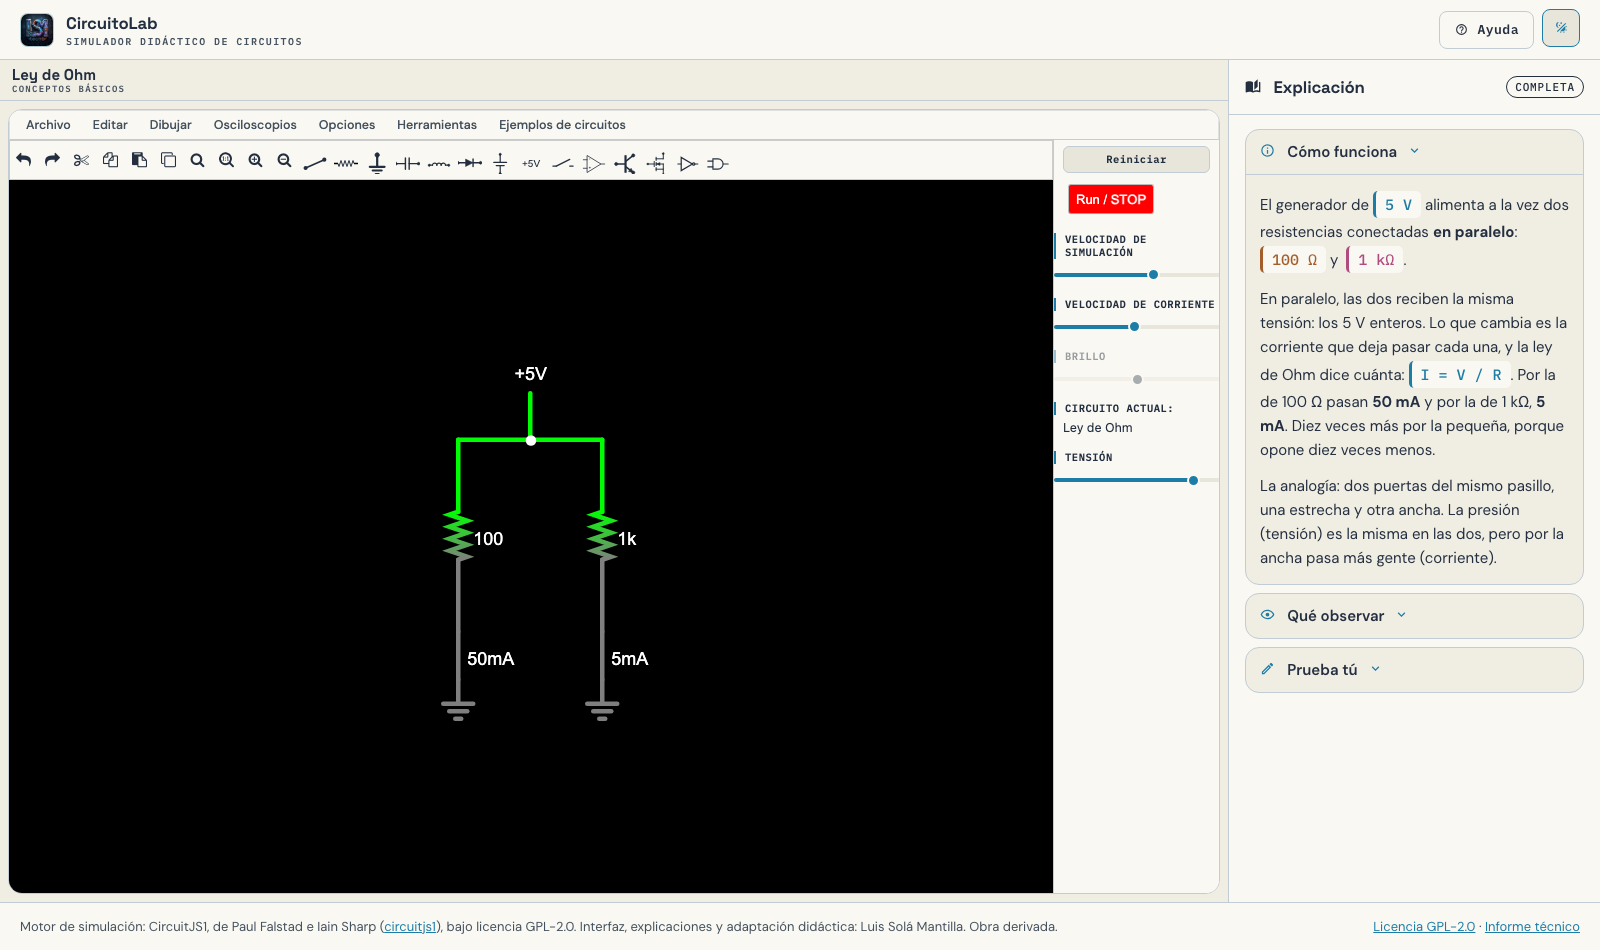
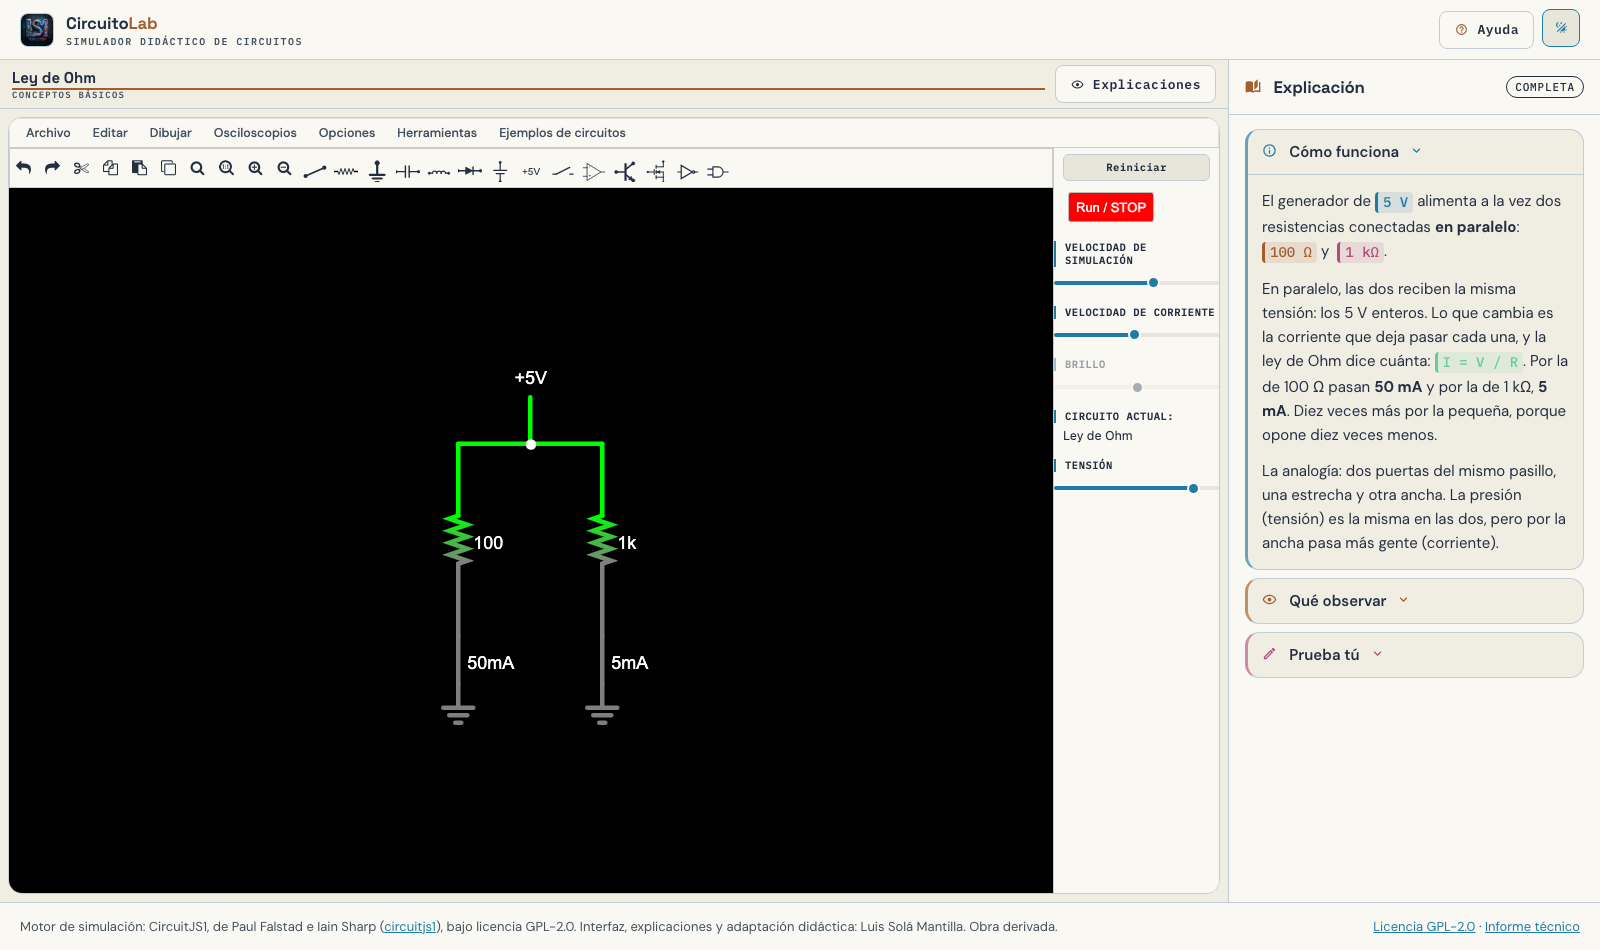
feat(ui): boton 'Explicaciones' para toggle del panel derecho (sin watchdog)

diff --git a/assets/js/app.js b/assets/js/app.js
@@ -13,7 +13,6 @@ const ESTADO = {
   catalogo: [],
   porId: new Map(),
   circuitoActual: null,
-  cargandoCatalogo: false,
   api: null,              // window.CircuitJS1 del iframe
   bloquesAbiertos: {},     // { bloqueId: true }
   cargando: false,
@@ -197,29 +196,7 @@ function vigilarCargasDelMotor() {
     };
   }
 
-  /* Watchdog: cuando el usuario hace "Nuevo circuito en blanco" el motor
-     no pide ningún .txt, así que alCargarArchivo no se dispara. Detectamos el
-     cambio sondeando exportCircuit(): si el XML del motor cambia sin que
-     estemos cargando un circuito del catálogo, es un circuito propio y
-     ocultamos el panel didáctico. */
-  let ultimoXml = w.exportCircuit ? w.exportCircuit() : '';
-  setInterval(() => {
-    try {
-      const xml = w.exportCircuit ? w.exportCircuit() : '';
-      if (xml === ultimoXml) return;
-      if (ESTADO.cargandoCatalogo) { ultimoXml = xml; return; }
-      if (xml.trim() && xml !== ultimoXml) {
-        // el motor cambió a un circuito que no viene del catálogo
-        ESTADO.circuitoActual = null;
-        const t = $('#titulo-circuito');
-        const sb = $('#subtitulo-circuito');
-        if (t) t.textContent = 'Circuito propio';
-        if (sb) sb.textContent = 'Creado o importado. No está en el catálogo.';
-        actualizarPanel();
-      }
-      ultimoXml = xml;
-    } catch (e) { /* motor aún no listo */ }
-  }, 600);
+
 }
 
 /** Cabecera del simulador: nombre, curso y categoría del circuito. */
@@ -822,16 +799,15 @@ function initBotones() {
     });
   }
 
-  const nuevo = $('#btn-nuevo');
-  if (nuevo && ESTADO.api) {
-    nuevo.addEventListener('click', () => {
-      try { ESTADO.api.importCircuit('', false); } catch (e) { /* motor aún no listo */ }
-      ESTADO.circuitoActual = null;
-      const t = $('#titulo-circuito');
-      const sb = $('#subtitulo-circuito');
-      if (t) t.textContent = 'Circuito propio';
-      if (sb) sb.textContent = 'Creado o importado. No está en el catálogo.';
-      actualizarPanel();
+  const explicaciones = $('#btn-explicaciones');
+  if (explicaciones) {
+    explicaciones.addEventListener('click', () => {
+      const panel = $('#panel');
+      const cuerpo = $('.cuerpo');
+      const ocultar = !panel.hidden;
+      panel.hidden = ocultar;
+      if (cuerpo) cuerpo.classList.toggle('panel-oculto', ocultar);
+      explicaciones.setAttribute('aria-expanded', String(!ocultar));
     });
   }
 }
@@ -860,7 +836,7 @@ function initIconos() {
   const mapa = {
     '#icono-cargando': 'mdi:electric-switch',
     '#icono-panel': 'mdi:book-open-page-variant',
-    '#icono-nuevo': 'mdi:file-plus',
+    '#icono-explicaciones': 'mdi:eye-outline',
     '#icono-pendiente': 'mdi:clock-outline',
     '#icono-ayuda': 'mdi:help-circle-outline',
     '#icono-ayuda-cerrar': 'mdi:close',

diff --git a/assets/css/fx.css b/assets/css/fx.css
@@ -1,0 +1,40 @@
+/* ==========================================================================
+   Fórmulas y valores destacados (.fx) + fracciones apiladas (.frac)
+   Regla de Luis (14/10/2026): siempre así, tanto en fórmulas simbólicas
+   como en operaciones numéricas. Ver references/formulas-fichas-y-fracciones.md
+   ========================================================================== */
+
+.fx {
+  font-family: var(--font-mono);
+  font-size: 0.875rem;
+  line-height: 1.35;
+  display: inline-block;
+  padding: 1px 5px;
+  border-radius: 4px;
+  border-left: 3px solid currentColor;
+  vertical-align: -1px;
+  white-space: nowrap;
+  /* nunca se parte: si no cabe, que se vea el desbordamiento y lo arreglemos */
+}
+.frac {
+  display: inline-flex;
+  flex-direction: column;
+  align-items: center;
+  vertical-align: middle;
+  margin: 0 0.18em;
+  font-size: 0.94em;
+  line-height: 1.15;
+}
+.frac > .num { padding: 0 0.18em; }
+.frac > .den {
+  border-top: 1.5px solid currentColor;
+  padding: 1px 0.18em 0;
+}
+
+/* Colores por variante — dos clases ganan a cualquier span del contenedor */
+.fx.fx-1 { color: rgb(var(--accent-rgb));    background: rgb(var(--accent-rgb) / 0.12); }
+.fx.fx-2 { color: rgb(var(--craft-rgb));     background: rgb(var(--craft-rgb) / 0.12); }
+.fx.fx-3 { color: rgb(var(--accent-hover-rgb)); background: rgb(var(--accent-hover-rgb) / 0.12); }
+.fx.fx-4 { color: rgb(var(--success-rgb));   background: rgb(var(--success-rgb) / 0.12); }
+.fx.fx-5 { color: rgb(var(--warning-rgb));   background: rgb(var(--warning-rgb) / 0.12); }
+.fx.fx-6 { color: rgb(var(--danger-rgb));    background: rgb(var(--danger-rgb) / 0.12); }

diff --git a/assets/css/base.css b/assets/css/base.css
@@ -60,7 +60,8 @@
   --accent: oklch(43% 0.11 205);         --accent-rgb: 29 125 166;
   --accent-hover: oklch(44% 0.16 335);   --accent-hover-rgb: 176 75 126;
   --craft: oklch(45% 0.11 55);           --craft-rgb: 163 94 43;
-  --danger: oklch(45% 0.16 25);          --danger-rgb: 179 58 51;
+  --danger: oklch(45% 0.16 25);          --danger-rgb: 179 58 51;        --success-rgb: 106 203 154;
+                                                                                                                                                                                                                                                                                                                                                                                                                                                                                                                                                                                                                                                                       
   --success: oklch(48% 0.1 160);
   --warning: oklch(52% 0.11 75);        --warning-rgb: 141 94 0;
   --on-accent: oklch(98% 0.006 90);      --on-accent-rgb: 250 248 242;

diff --git a/index.html b/index.html
@@ -49,9 +49,9 @@
           <strong id="titulo-circuito">Circuito</strong>
           <span class="kicker" id="subtitulo-circuito">Elige un circuito en «Ejemplos de circuitos»</span>
         </div>
-        <button class="btn btn-icon" id="btn-nuevo" type="button" title="Nuevo circuito en blanco">
-          <span id="icono-nuevo" aria-hidden="true"></span>
-          <span>Nuevo</span>
+        <button class="btn" id="btn-explicaciones" type="button" aria-expanded="true" title="Mostrar u ocultar la columna de explicaciones">
+          <span id="icono-explicaciones" aria-hidden="true"></span>
+          <span>Explicaciones</span>
         </button>
       </div>
       <div class="simulador__marco">
